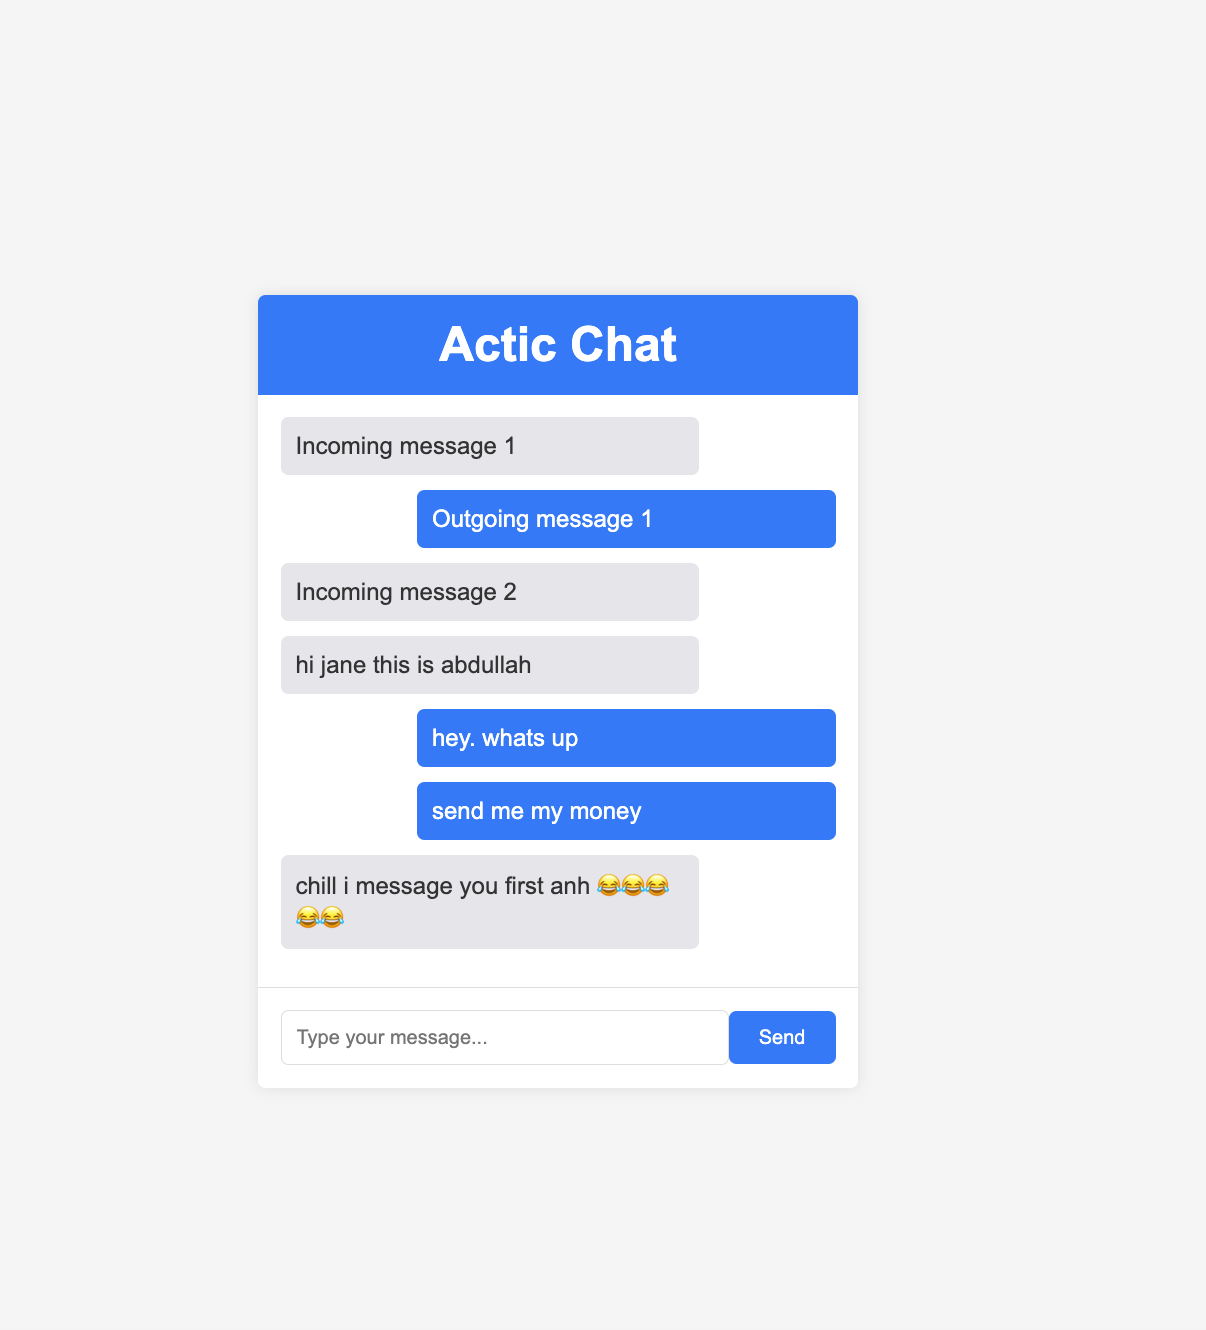
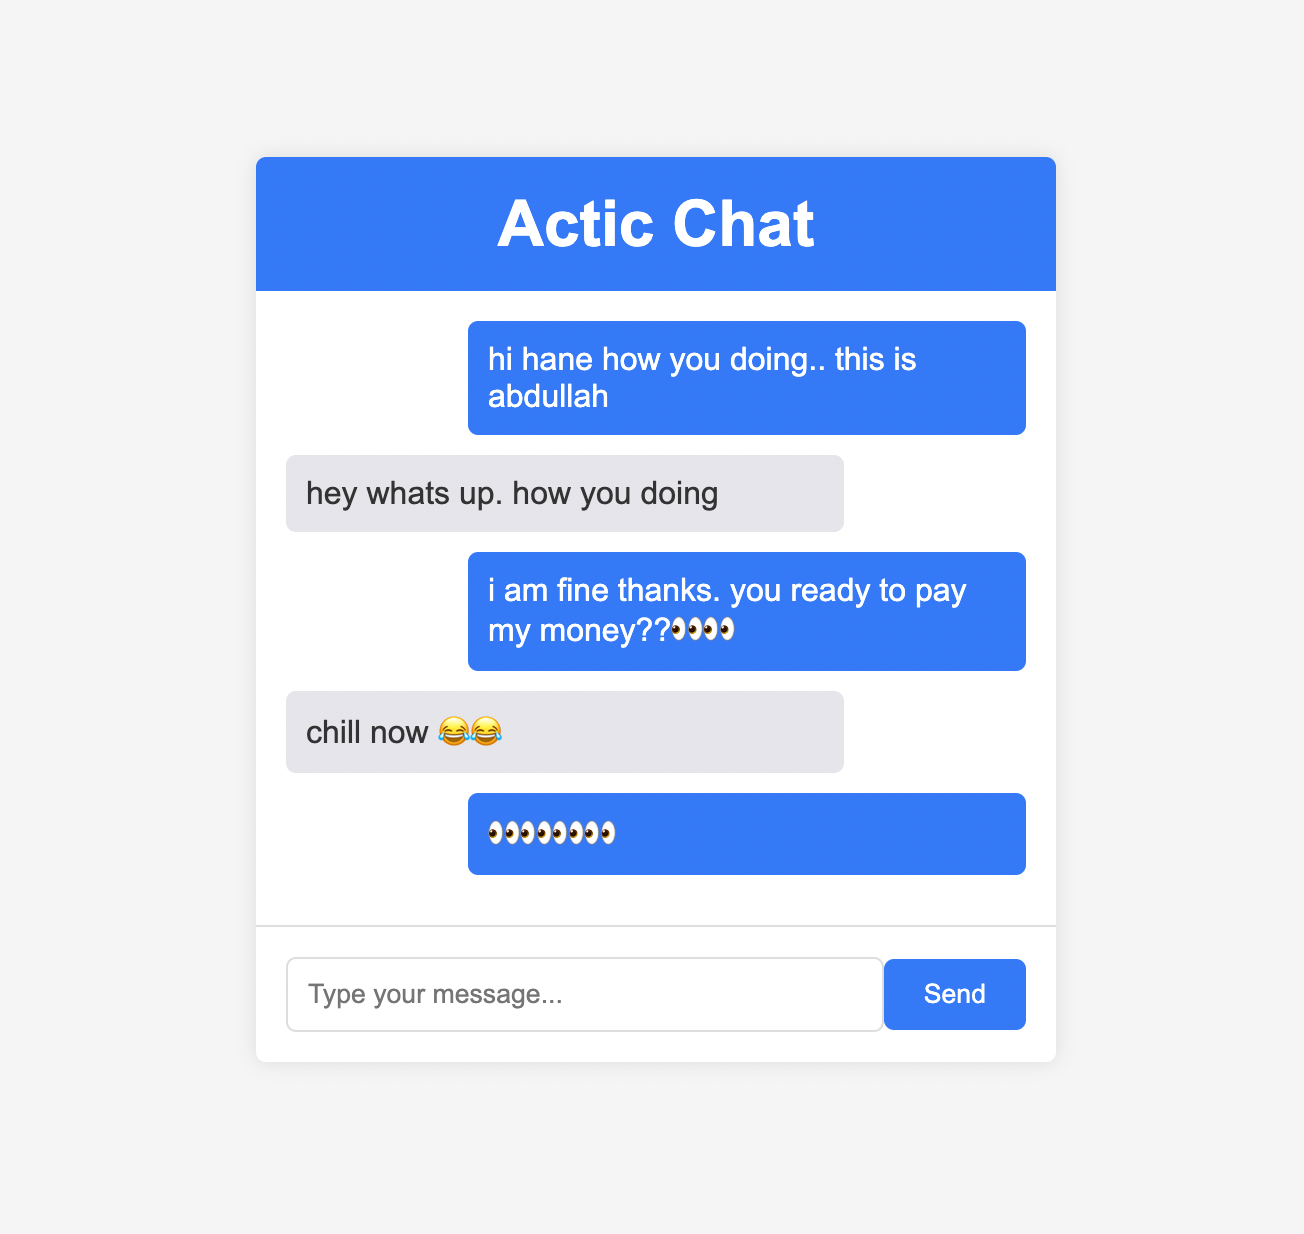
added a file screenshot

Changed region(s): [[0.1841, 0.1232, 0.8284, 0.7391], [0.5829, 0.7391, 0.7977, 0.8622], [0.2148, 0.7699, 0.4295, 0.8314]]

diff --git a/static/index.html b/static/index.html
@@ -15,15 +15,7 @@
             <h1>Actic Chat</h1>
         </div>
         <div class="chat-log" id="log">
-            <div class="incoming-message">
-                <p>Incoming message 1</p>
-            </div>
-            <div class="outgoing-message">
-                <p>Outgoing message 1</p>
-            </div>
-            <div class="incoming-message">
-                <p>Incoming message 2</p>
-            </div>
+             
             <!-- More messages can be added here -->
         </div>
         <div class="chat-input">
